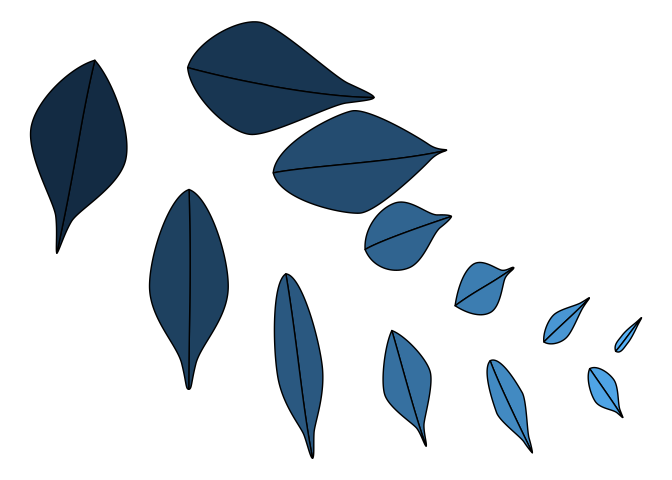
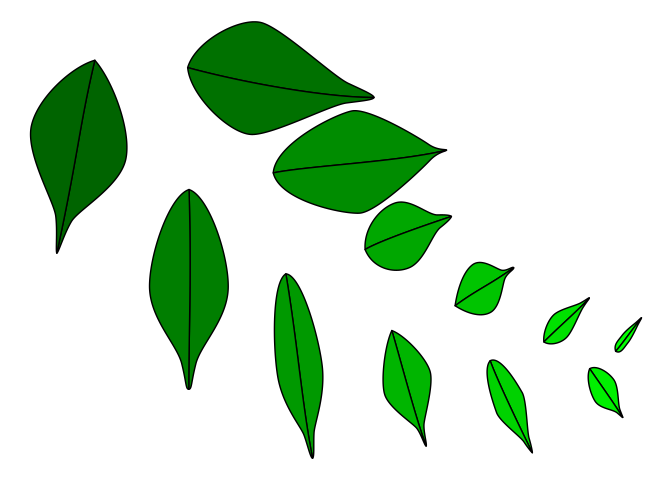
fix fill color in polygons

diff --git a/README.md b/README.md
@@ -211,16 +211,16 @@ bezier curves with polygons:
 
 ``` r
 df_branch %>% 
-    filter(stringr::str_detect(element, "^half [12]$")) %>%
-    unite(idx, i_branch, element, remove = FALSE) %>%
-    gen_leaf_bezier_coords(idx, i_branch, element, i_part, n = 100) %>% 
+  filter(stringr::str_detect(element, "^half [12]$")) %>%
+  unite(idx, i_branch, element, remove = FALSE) %>%
+  gen_leaf_bezier_coords(idx, i_branch, element, i_part, n = 100) %>% 
   ggplot(
     data = .,
     aes(x = x, y = y, group = idx, fill = i_branch)
   ) +
   geom_polygon(show.legend = FALSE, color = "black") +
-  theme_void() + 
-  scale_color_gradientn(colours = c("darkgreen", "green"))
+  scale_fill_gradientn(colours = c("darkgreen", "green")) +
+  theme_void() 
 ```
 
 <img src="man/figures/README-polygon-1.png" width="100%" />
